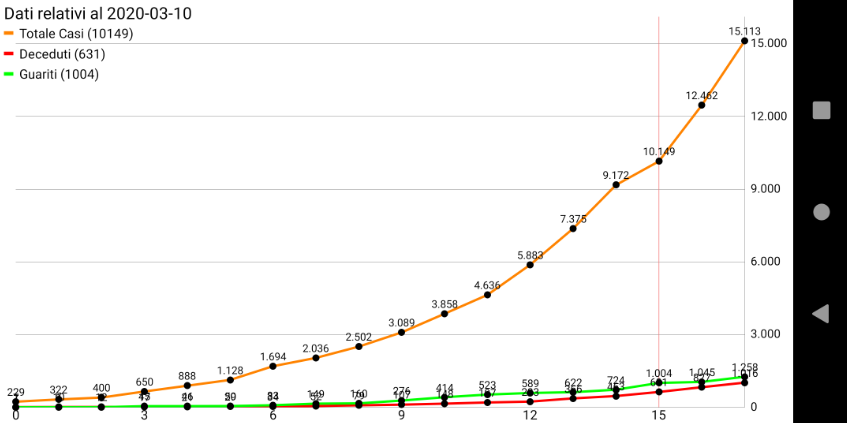
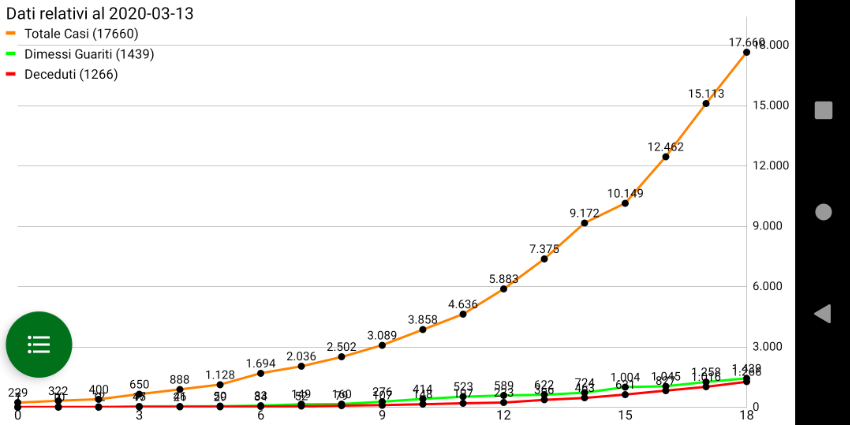
update img

diff --git a/README.md b/README.md
@@ -13,3 +13,12 @@ Informativa<br/>
 
 Visualizzazione grafica<br/>
 ![alt text](https://github.com/SimoneTinella/Stato_COVID19_Italia_Android/raw/master/img/ChartActivity.PNG)
+
+Comparazione giorni<br/>
+![alt text](https://github.com/SimoneTinella/Stato_COVID19_Italia_Android/raw/master/img/DayDiff.PNG)
+
+Selettore Trend<br/>
+![alt text](https://github.com/SimoneTinella/Stato_COVID19_Italia_Android/raw/master/img/TrendSelector.PNG)
+
+Zoom<br/>
+![alt text](https://github.com/SimoneTinella/Stato_COVID19_Italia_Android/raw/master/img/Zoom.PNG)
